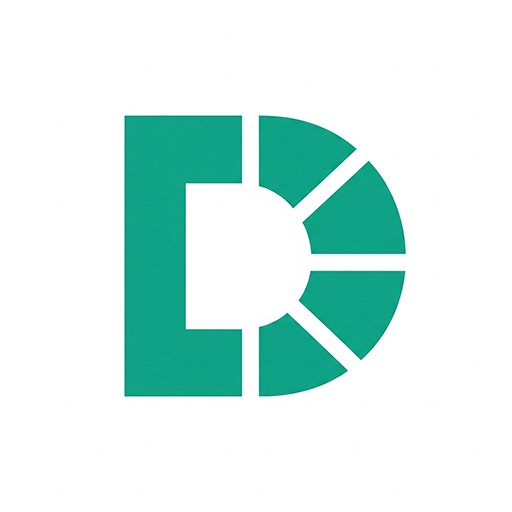
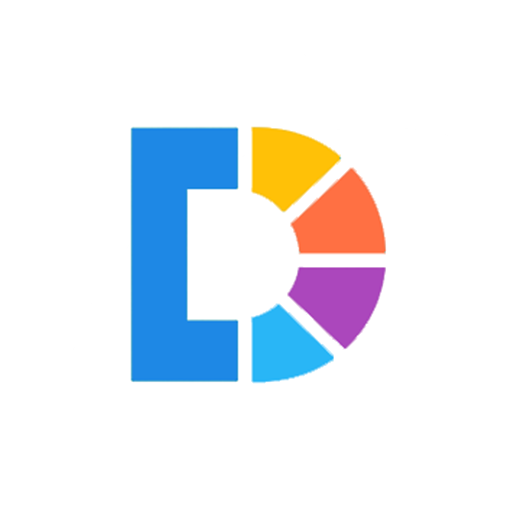
Aggiunta Icona

Changed region(s): [[0.2188, 0.2188, 0.8125, 0.7812]]

diff --git a/client/src/pages/Menu.tsx b/client/src/pages/Menu.tsx
@@ -6,6 +6,7 @@ import { Card, CardContent, CardDescription, CardHeader, CardTitle, CardFooter }
 import { Loader2, LogOut, UserCheck, Vote, BarChart2, ShieldCheck, PieChart, Bell, Trophy, MessageSquare, Settings, Crown, Building2, Scale, Users, FileText, Calendar, Megaphone } from "lucide-react";
 import { useToast } from "@/hooks/use-toast";
 import { db, auth } from "@/lib/firebase";
+import appIcon from '/icona.png';
 
 export default function Menu() {
   const { user, isLoading, logoutMutation } = useAuth();
@@ -74,6 +75,11 @@ export default function Menu() {
         <div className="container mx-auto px-4 py-8">
           <Card className="w-full max-w-4xl mx-auto">
             <CardHeader className="text-center">
+              <img 
+                src={appIcon} 
+                alt="Logo Demos" 
+                className="w-24 h-24 mx-auto mb-4" 
+              />
               <CardTitle className="text-3xl font-bold bg-gradient-to-r from-primary to-blue-600 bg-clip-text text-transparent">
                 Menu Principale
               </CardTitle>

diff --git a/client/src/pages/LandingPage.tsx b/client/src/pages/LandingPage.tsx
@@ -3,6 +3,7 @@ import { Button } from "@/components/ui/button";
 import { Navbar } from "@/components/Navbar";
 import { useAuth } from "@/hooks/use-auth";
 import { Loader2 } from "lucide-react";
+import appIcon from '/icona.png';
 
 export default function LandingPage() {
   const { user, isLoading } = useAuth();
@@ -30,6 +31,11 @@ export default function LandingPage() {
         <section className="py-16 md:py-24">
           <div className="container mx-auto px-4">
             <div className="max-w-3xl mx-auto text-center">
+              <img 
+                src={appIcon} 
+                alt="Logo Demos" 
+                className="w-28 h-28 mx-auto mb-6" 
+              />
               <h1 className="text-4xl md:text-6xl font-bold text-gray-900 mb-6">
                 Benvenuto in <span className="text-transparent bg-clip-text bg-gradient-to-r from-blue-600 to-indigo-600">DEMOS</span>
               </h1>

diff --git a/client/index.html b/client/index.html
@@ -4,6 +4,10 @@
     <meta charset="UTF-8" />
     <meta name="viewport" content="width=device-width, initial-scale=1.0, maximum-scale=1" />
 
+    <!-- ▼▼▼ RIGA AGGIUNTA PER L'ICONA DEL SITO (FAVICON) ▼▼▼ -->
+    <link rel="icon" type="image/png" href="/icona.png" />
+    <!-- ▲▲▲ FINE RIGA AGGIUNTA ▲▲▲ -->
+
     <link rel="manifest" href="/manifest.json" />
     <meta name="theme-color" content="#1E1E1E" />
   </head>
